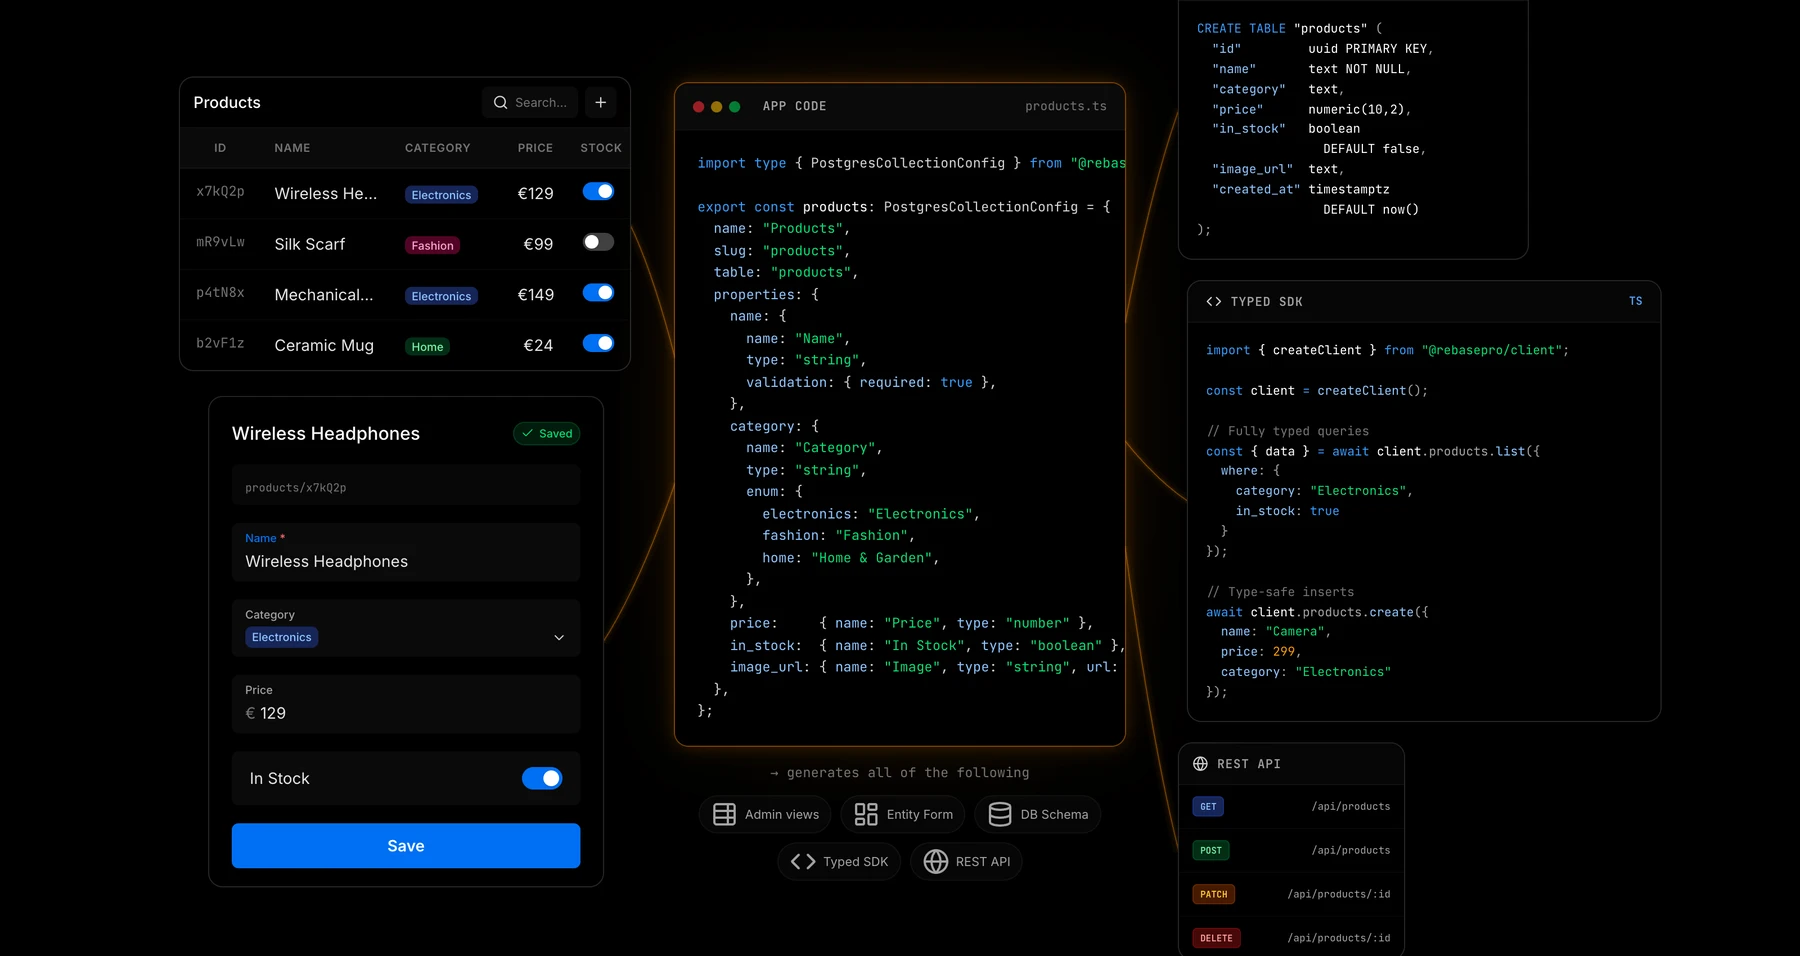
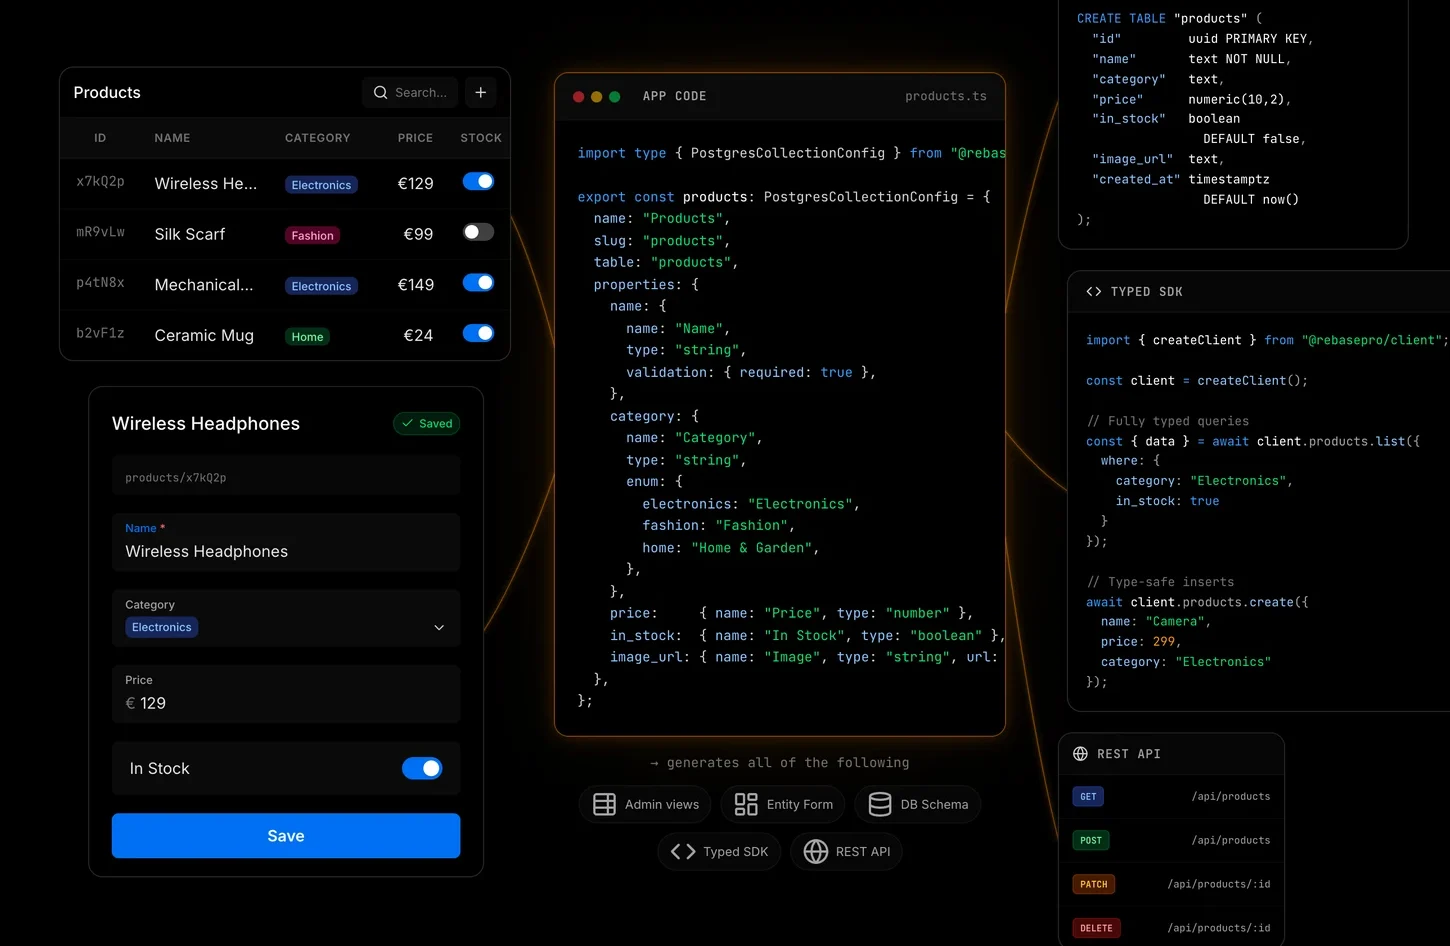
Make the work screenshots bigger, Rebase most of all
Two things were holding them small.

The media column was not the same width on alternating rows. With one
fixed 1.08/0.92 split the image landed in the wide track on even rows and
the narrow one on odd rows, so FireCMS and SustenTalent rendered 90px
narrower than medicalmotion and Rebase for no reason but which way round
they alternate. The wide track now follows the media whichever side it is
on, and the split moves to 1.15/0.85. Every screenshot is 771px, up from
732 and 642.

And the Rebase asset was mostly padding. Measuring its content bounds
found 82px of dead space at the top, 88 at the bottom, 208 left and 411
right — a 1.88 frame holding a 1.53 composition, which is why it sat
short in a tall row while everything inside it stayed small. Trimmed to
its own margins it is 504px tall against 389, with the artwork
proportionally larger. An automatic trim cut the ID column and the SDK
and REST panels, so the crop is deliberately conservative: the full
table, all four REST verbs and the chip row all survive.

Copy holds at 476px, and no width overflows or scrolls sideways.

diff --git a/src/components/Work.tsx b/src/components/Work.tsx
@@ -173,7 +173,16 @@ export function Work() {
                  wider than its column by design, and a bare `fr` track refuses to
                  shrink below its content's min-content width — so the strip pushed
                  the column out and squeezed the copy into a third of the row. */
-              className="group/row grid grid-cols-1 min-[900px]:grid-cols-[minmax(0,1.08fr)_minmax(0,0.92fr)] gap-10 min-[900px]:gap-16 items-center reveal">
+              /* The media always takes the wider track, whichever side it is on.
+                 With one fixed split the image sat in 1.08fr on even rows and
+                 0.92fr on odd ones, so FireCMS and SustenTalent rendered 90px
+                 narrower than medicalmotion and Rebase for no reason other than
+                 which way round they alternate. */
+              className={`group/row grid grid-cols-1 gap-10 min-[900px]:gap-16 items-center reveal ${
+                i % 2
+                  ? 'min-[900px]:grid-cols-[minmax(0,0.85fr)_minmax(0,1.15fr)]'
+                  : 'min-[900px]:grid-cols-[minmax(0,1.15fr)_minmax(0,0.85fr)]'
+              }`}>
               <div
                 /* No `w-full` here on purpose: an explicit width pins the box
                    to its grid column, so the negative margin slides the shot
